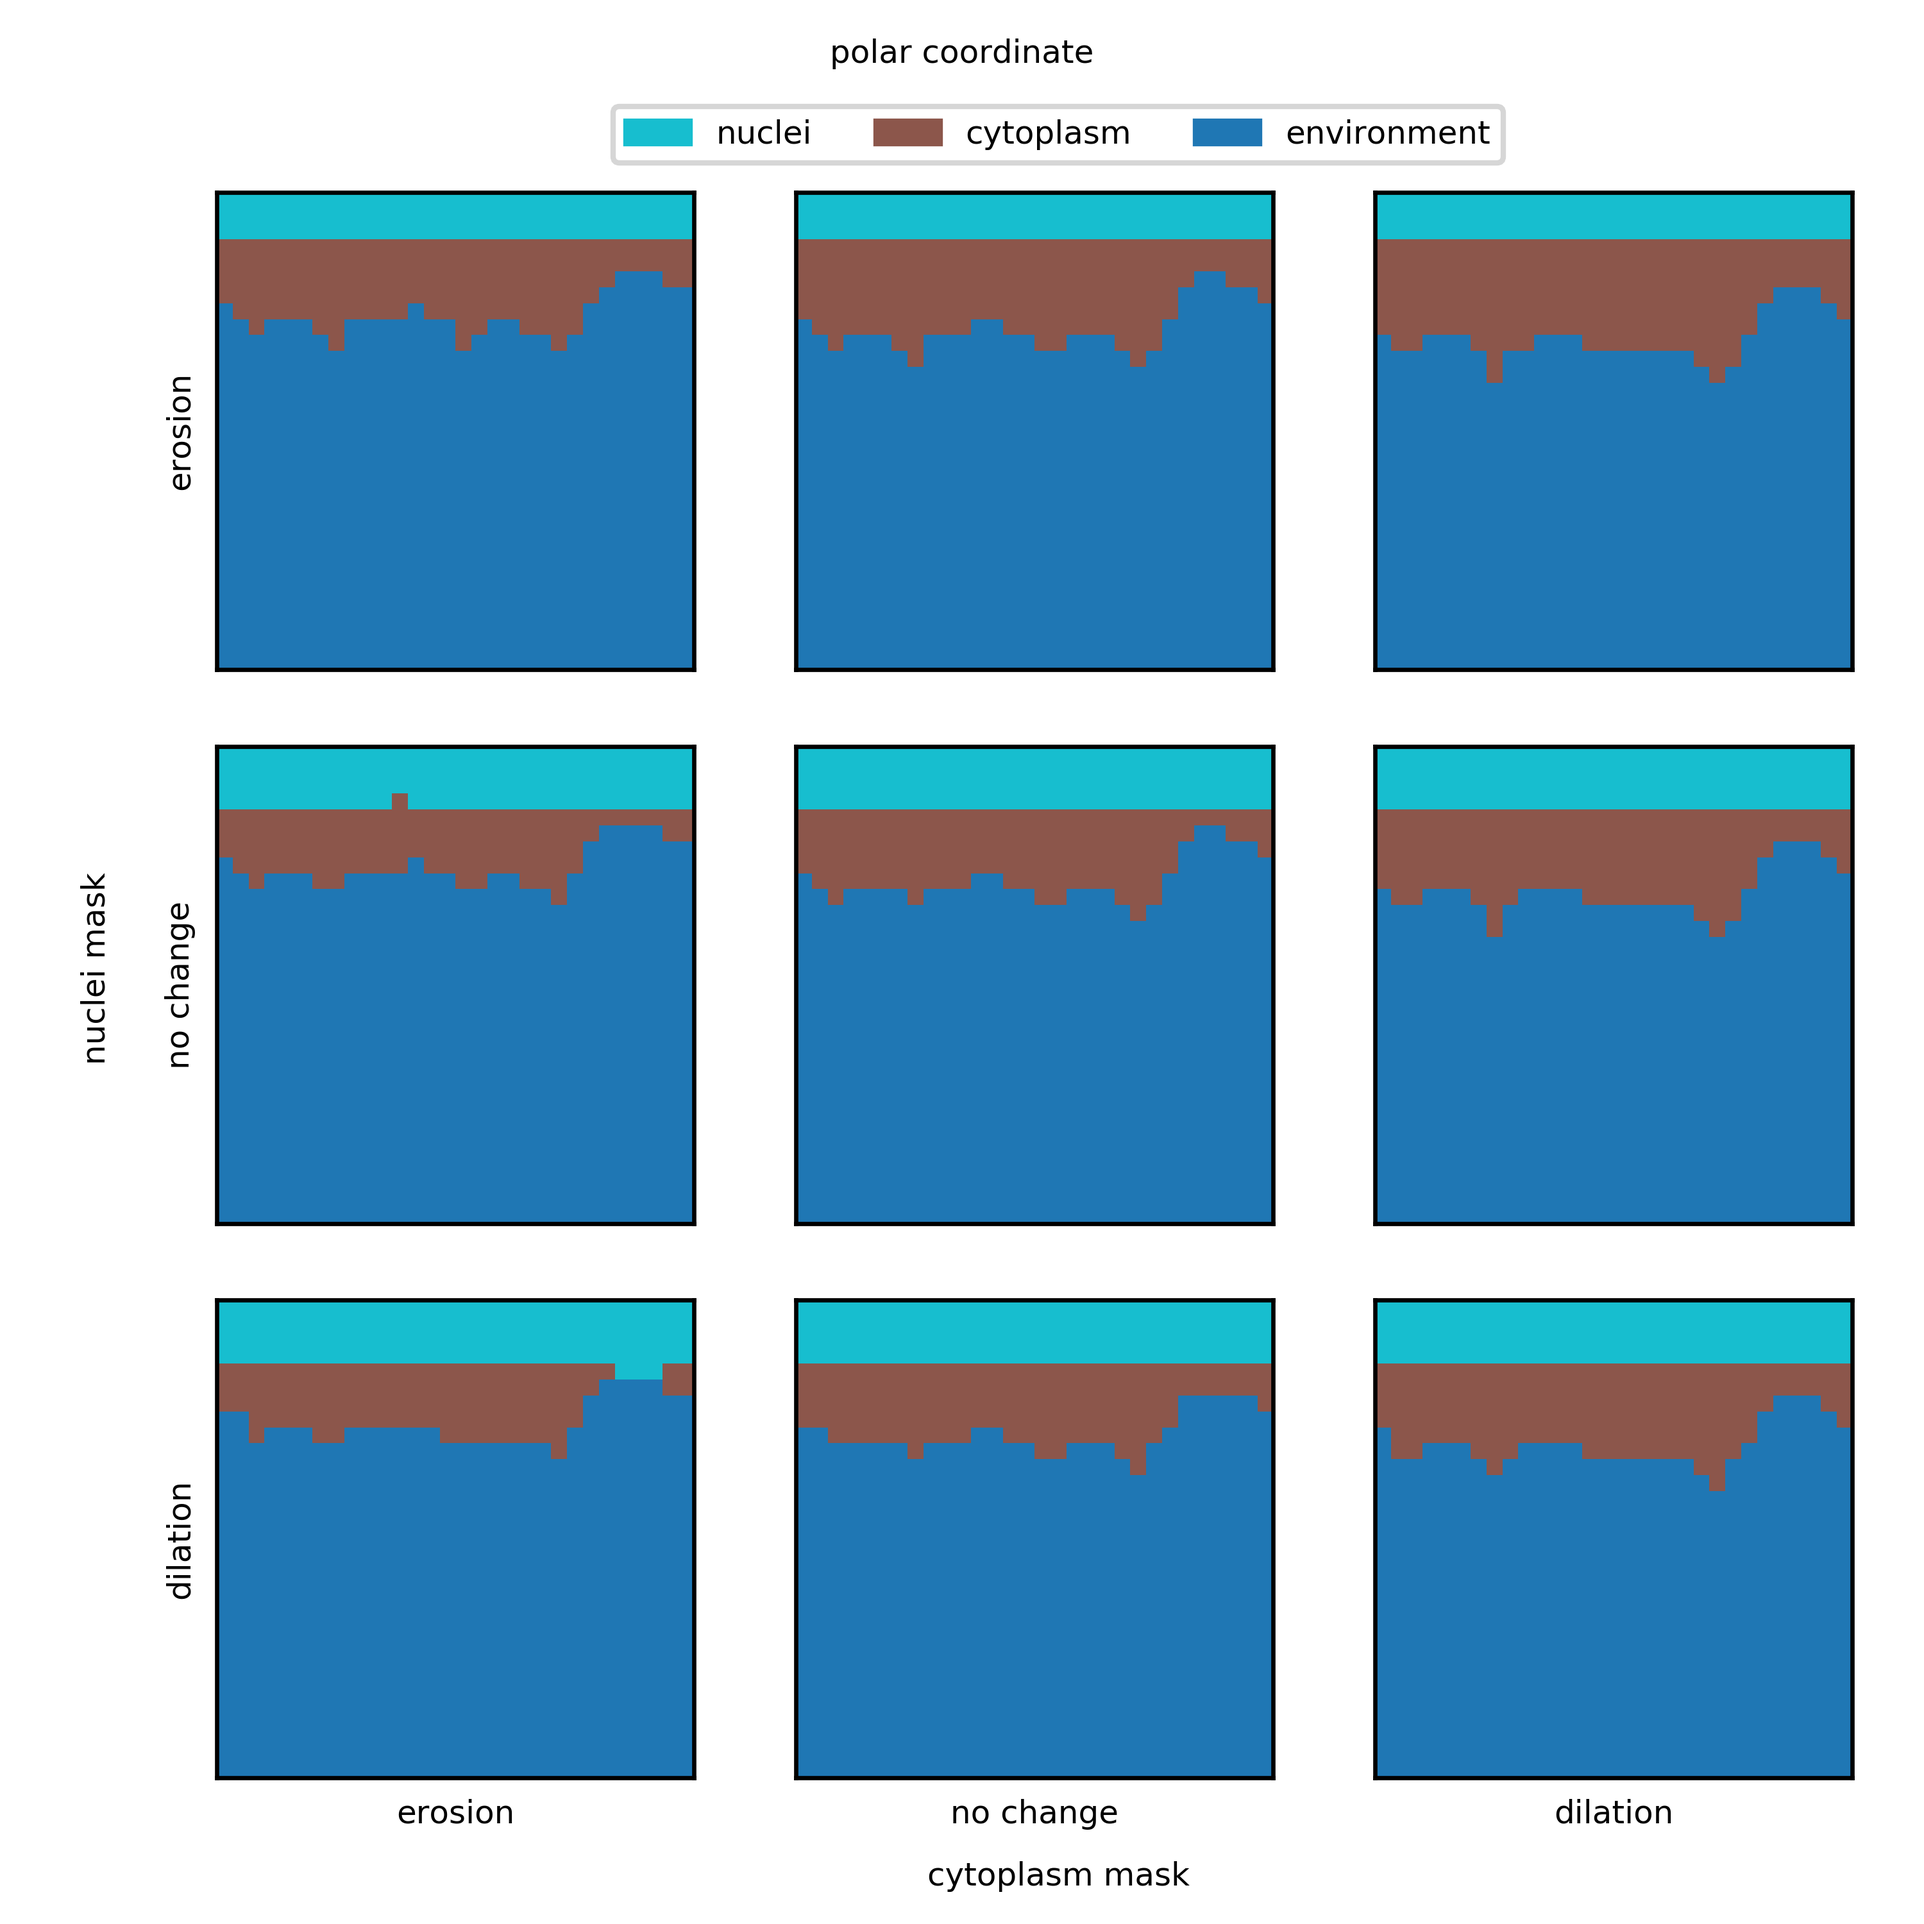
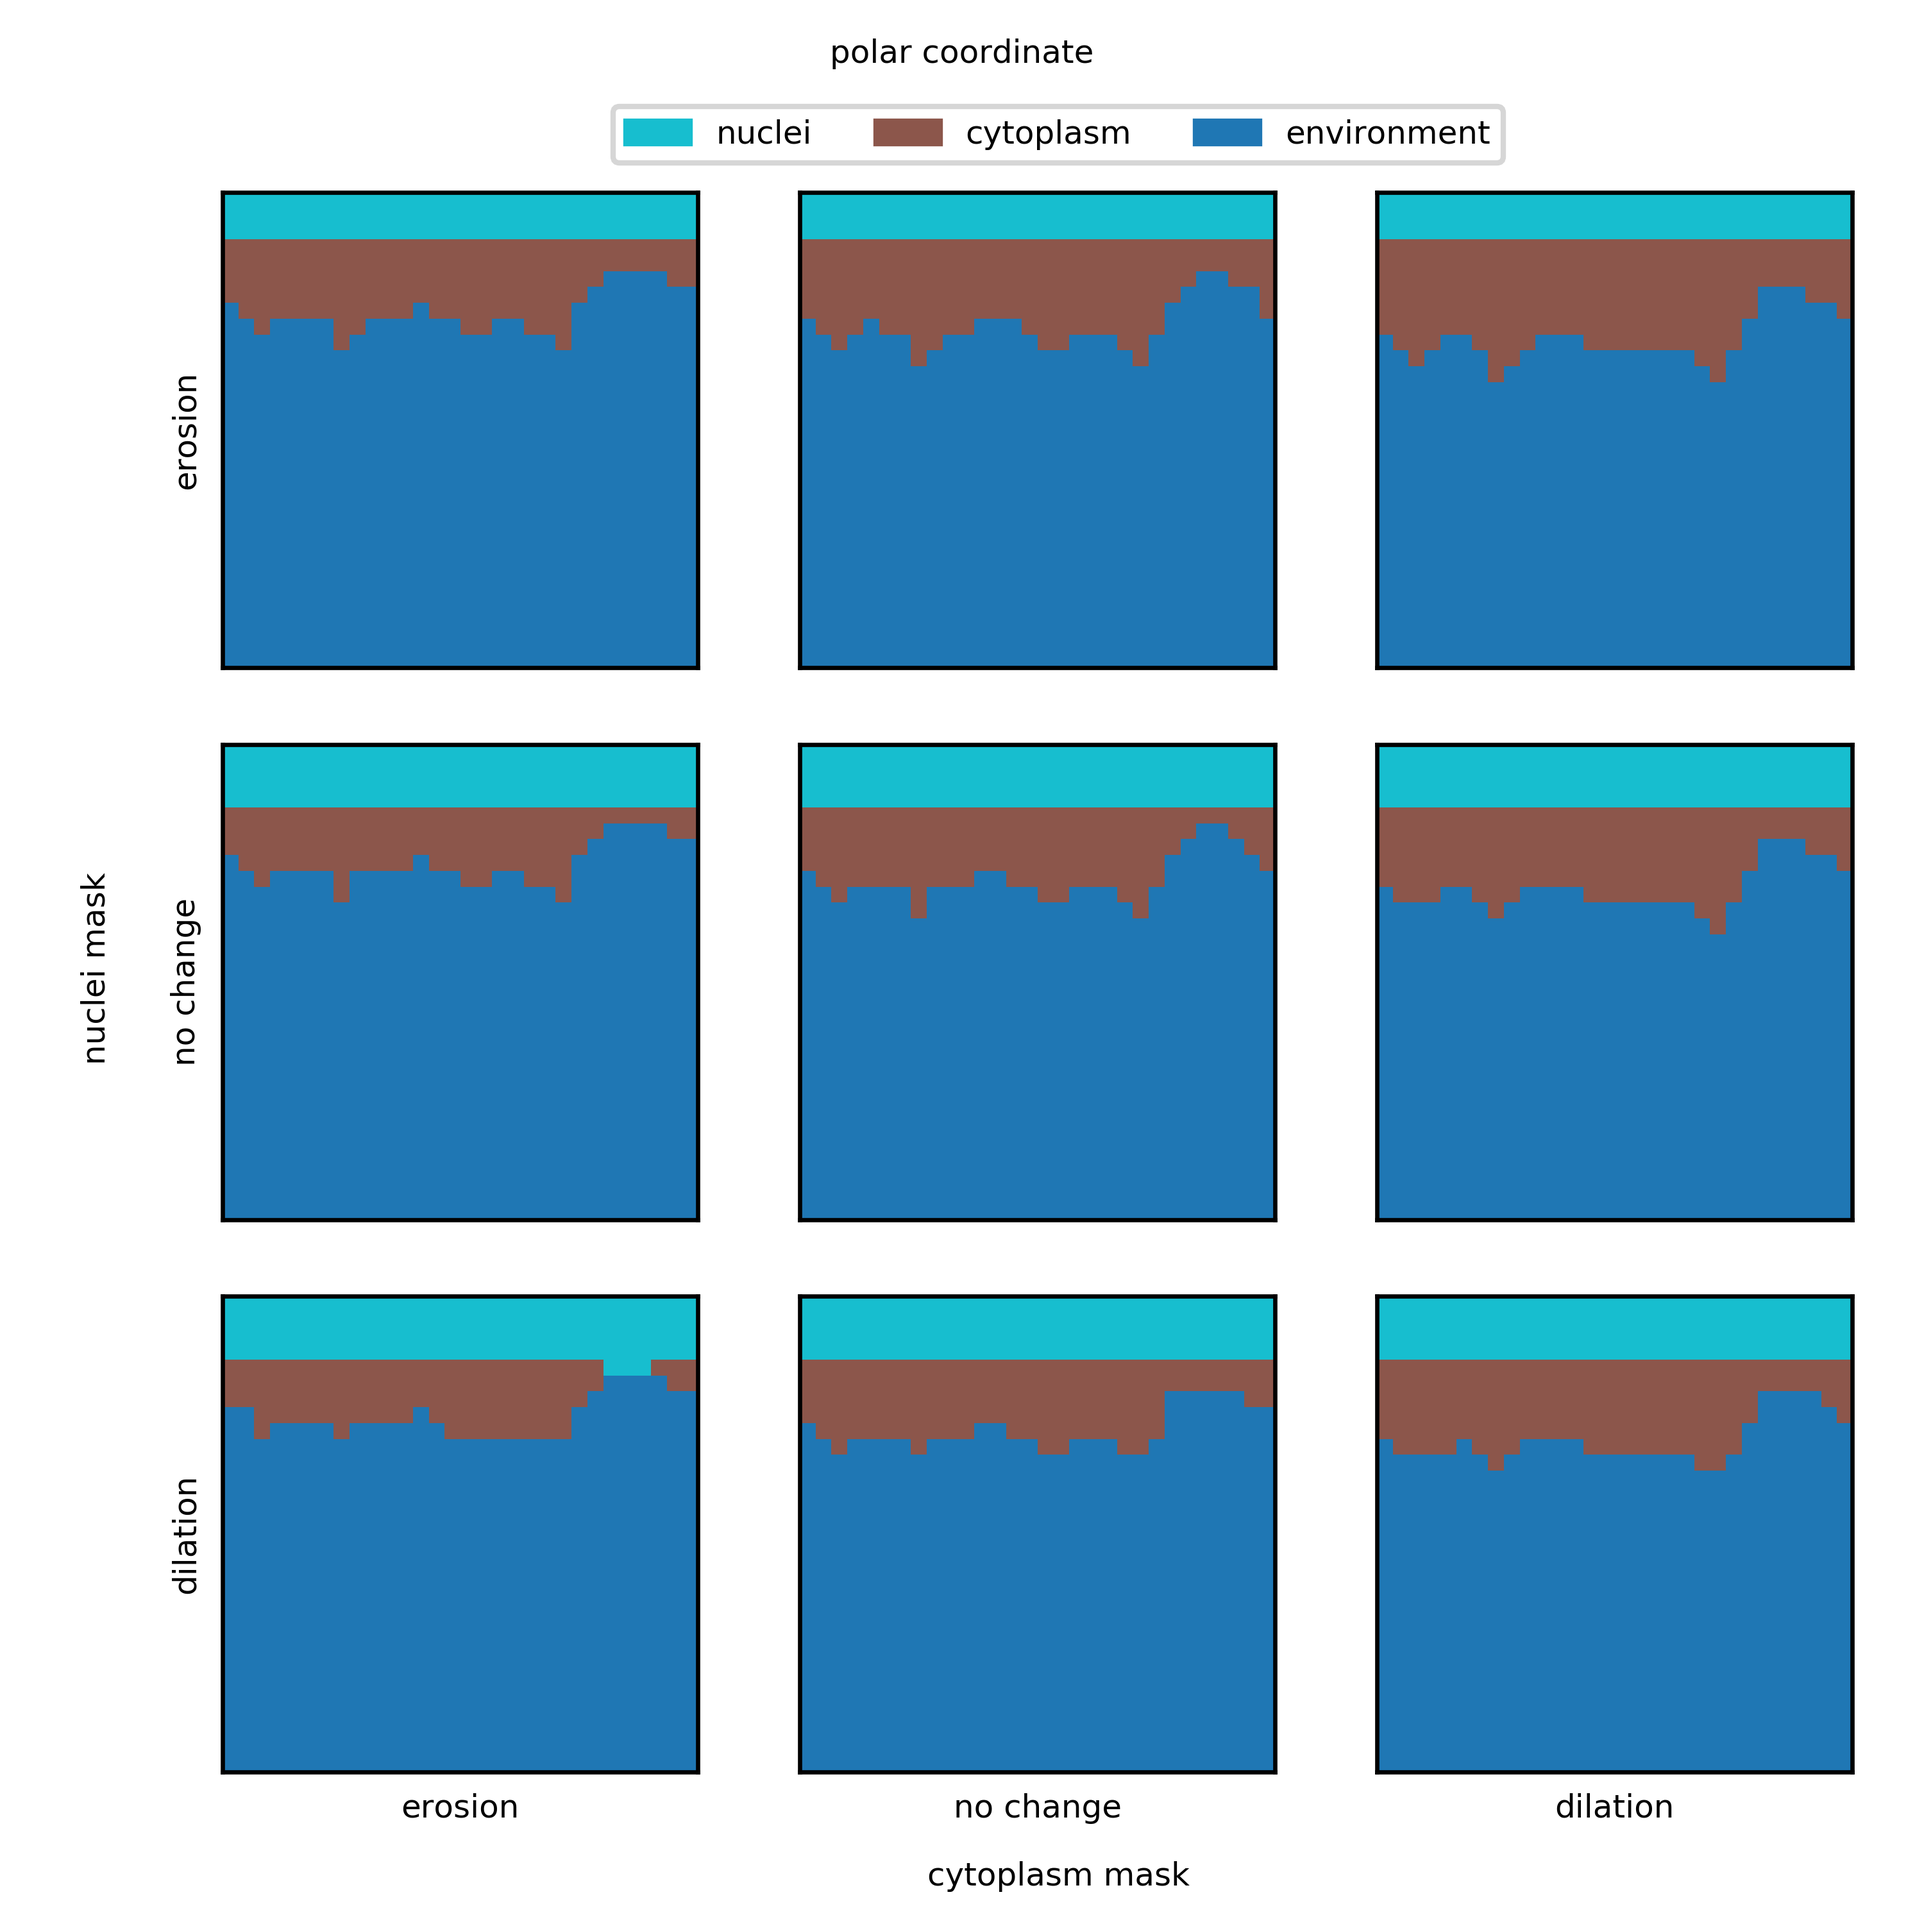
added translational perturbation

diff --git a/code/fig2_figs1/gen_figs1.py b/code/fig2_figs1/gen_figs1.py
@@ -7,23 +7,22 @@ import matplotlib.patches as mpatches
 
 if __name__ == '__main__':
     # paths
-    data_folderpath = '.'
-    output1_filepath = os.path.expanduser('~/polartk/figures/fig_s1a.png')
-    output2_filepath = os.path.expanduser('~/polartk/figures/fig_s1b.png')
+    data_folderpath = './scenario_data'
+    output_filepath_dict = {key: os.path.expanduser('~/polartk/figures/fig_s1{}.png'\
+            .format(key)) for key in ['a', 'b', 'c', 'd']}
 
+    ######### radial perturbation #########
     # load data
     xydata_dict = {}
     rtdata_dict = {}
     for filename in os.listdir(data_folderpath):
-        if os.path.splitext(filename)[1] != '.npy':
-            continue
-        filepath = os.path.join(data_folderpath, filename)
-        scenario = os.path.splitext(filename)[0].split('_')[-1]
-        data = np.load(filepath)
-        if filename.startswith('scenario'): # xy
-            xydata_dict[scenario] = data
-        elif filename.startswith('output'): # rt
-            rtdata_dict[scenario] = data
+        if os.path.splitext(filename)[1] == '.npy' and\
+                filename.startswith('radial_'):
+            key = os.path.splitext(filename)[0][len('radial_'):]
+            filepath = os.path.join(data_folderpath, filename)
+            xydata_dict[key] = np.load(filepath)
+            filepath = os.path.join(data_folderpath, 'output_' + filename)
+            rtdata_dict[key] = np.load(filepath)
 
     # plot euclidean coordinate
     fig, axes = plt.subplots(ncols=3, nrows=3, figsize=(5, 5))
@@ -54,7 +53,7 @@ if __name__ == '__main__':
     legend_elements = [
             mlines.Line2D([0], [0], color='w', marker='o',
                 markeredgecolor='r', markerfacecolor='r',
-                label='cell centroid'),
+                markersize=5, label='cell centroid'),
             mpatches.Patch(facecolor='tab:cyan', edgecolor='tab:cyan',
                 label='nuclei'),
             mpatches.Patch(facecolor='tab:brown', edgecolor='tab:brown',
@@ -70,7 +69,7 @@ if __name__ == '__main__':
             rotation='vertical')
     fig.suptitle('Euclidean coordinate', fontsize=fs, y=0.98)
     fig.tight_layout(rect=[0.05, 0.02, 1, 0.93])
-    plt.savefig(output1_filepath, dpi=600)
+    plt.savefig(output_filepath_dict['a'], dpi=600)
     plt.show()
     plt.close()
 
@@ -114,6 +113,112 @@ if __name__ == '__main__':
             rotation='vertical')
     fig.suptitle('polar coordinate', fontsize=fs, y=0.98)
     fig.tight_layout(rect=[0.05, 0.02, 1, 0.93])
-    plt.savefig(output2_filepath, dpi=600)
+    plt.savefig(output_filepath_dict['b'], dpi=600)
+    plt.show()
+    plt.close()
+
+    ######### translational perturbation #########
+    # load data
+    xydata_dict = {}
+    rtdata_dict = {}
+    for filename in os.listdir(data_folderpath):
+        if os.path.splitext(filename)[1] == '.npy' and\
+                filename.startswith('translational_'):
+            key = os.path.splitext(filename)[0][len('translational_'):]
+            filepath = os.path.join(data_folderpath, filename)
+            xydata_dict[key] = np.load(filepath)
+            filepath = os.path.join(data_folderpath, 'output_' + filename)
+            rtdata_dict[key] = np.load(filepath)
+
+    # plot euclidean coordinate
+    fig, axes = plt.subplots(ncols=3, nrows=3, figsize=(5, 5))
+    fs = 6
+
+    scenario_list = ['-1', '0', '1']
+    for i, shift_x in enumerate(scenario_list):
+        for j, shift_y in enumerate(scenario_list):
+            scenario = 'c{}{}'.format(shift_x, shift_y)
+            data = xydata_dict[scenario][..., 0]
+            axes[i, j].imshow(data, cmap='tab10')
+            xc, yc = np.argwhere(data == 2).mean(axis=0)
+            axes[i, j].scatter([yc], [xc], c='r', marker='o', s=2)
+    
+    for ax in axes.flatten():
+        ax.set_xticks([])
+        ax.set_yticks([])
+
+    axes[0, 0].set_ylabel('shift -1', fontsize=fs)
+    axes[1, 0].set_ylabel('no change', fontsize=fs)
+    axes[2, 0].set_ylabel('shift +1', fontsize=fs)
+
+    axes[2, 0].set_xlabel('shift -1', fontsize=fs)
+    axes[2, 1].set_xlabel('no change', fontsize=fs)
+    axes[2, 2].set_xlabel('shift +1', fontsize=fs)
+
+    # custom legend
+    legend_elements = [
+            mlines.Line2D([0], [0], color='w', marker='o',
+                markeredgecolor='r', markerfacecolor='r',
+                markersize=5, label='cell centroid'),
+            mpatches.Patch(facecolor='tab:cyan', edgecolor='tab:cyan',
+                label='nuclei'),
+            mpatches.Patch(facecolor='tab:brown', edgecolor='tab:brown',
+                label='cytoplasm'),
+            mpatches.Patch(facecolor='tab:blue', edgecolor='tab:blue',
+                label='environment'),
+            ]
+    plt.figlegend(handles=legend_elements, ncol=4, bbox_to_anchor=(0.55, 0.93),
+            loc='center', fontsize=6)
+
+    fig.text(0.55, 0.02, 'shift in y-direction', ha='center', fontsize=fs)
+    fig.text(0.05, 0.45, 'shift in x-direction', ha='center', fontsize=fs,
+            rotation='vertical')
+    fig.suptitle('Euclidean coordinate', fontsize=fs, y=0.98)
+    fig.tight_layout(rect=[0.05, 0.02, 1, 0.93])
+    plt.savefig(output_filepath_dict['c'], dpi=600)
+    plt.show()
+    plt.close()
+
+    # plot polar coordinate
+    fig, axes = plt.subplots(ncols=3, nrows=3, figsize=(5, 5))
+    fs = 6
+
+    scenario_list = ['-1', '0', '1']
+    for i, shift_x in enumerate(scenario_list):
+        for j, shift_y in enumerate(scenario_list):
+            scenario = 'c{}{}'.format(shift_x, shift_y)
+            data = rtdata_dict[scenario][..., 0]
+            axes[i, j].imshow(data, cmap='tab10')
+    
+    for ax in axes.flatten():
+        ax.set_xticks([])
+        ax.set_yticks([])
+
+    axes[0, 0].set_ylabel('shift -1', fontsize=fs)
+    axes[1, 0].set_ylabel('no change', fontsize=fs)
+    axes[2, 0].set_ylabel('shift +1', fontsize=fs)
+
+    axes[2, 0].set_xlabel('shift -1', fontsize=fs)
+    axes[2, 1].set_xlabel('no change', fontsize=fs)
+    axes[2, 2].set_xlabel('shift +1', fontsize=fs)
+
+    # custom legend
+    legend_elements = [
+            mpatches.Patch(facecolor='tab:cyan', edgecolor='tab:cyan',
+                label='nuclei'),
+            mpatches.Patch(facecolor='tab:brown', edgecolor='tab:brown',
+                label='cytoplasm'),
+            mpatches.Patch(facecolor='tab:blue', edgecolor='tab:blue',
+                label='environment'),
+            ]
+    plt.figlegend(handles=legend_elements, ncol=3, bbox_to_anchor=(0.55, 0.93),
+            loc='center', fontsize=6)
+
+    fig.text(0.55, 0.02, 'shift in y-direction', ha='center', fontsize=fs)
+    fig.text(0.05, 0.45, 'shift in x-direction', ha='center', fontsize=fs,
+            rotation='vertical')
+    fig.suptitle('polar coordinate', fontsize=fs, y=0.98)
+    fig.tight_layout(rect=[0.05, 0.02, 1, 0.93])
+    plt.savefig(output_filepath_dict['d'], dpi=600)
     plt.show()
     plt.close()
